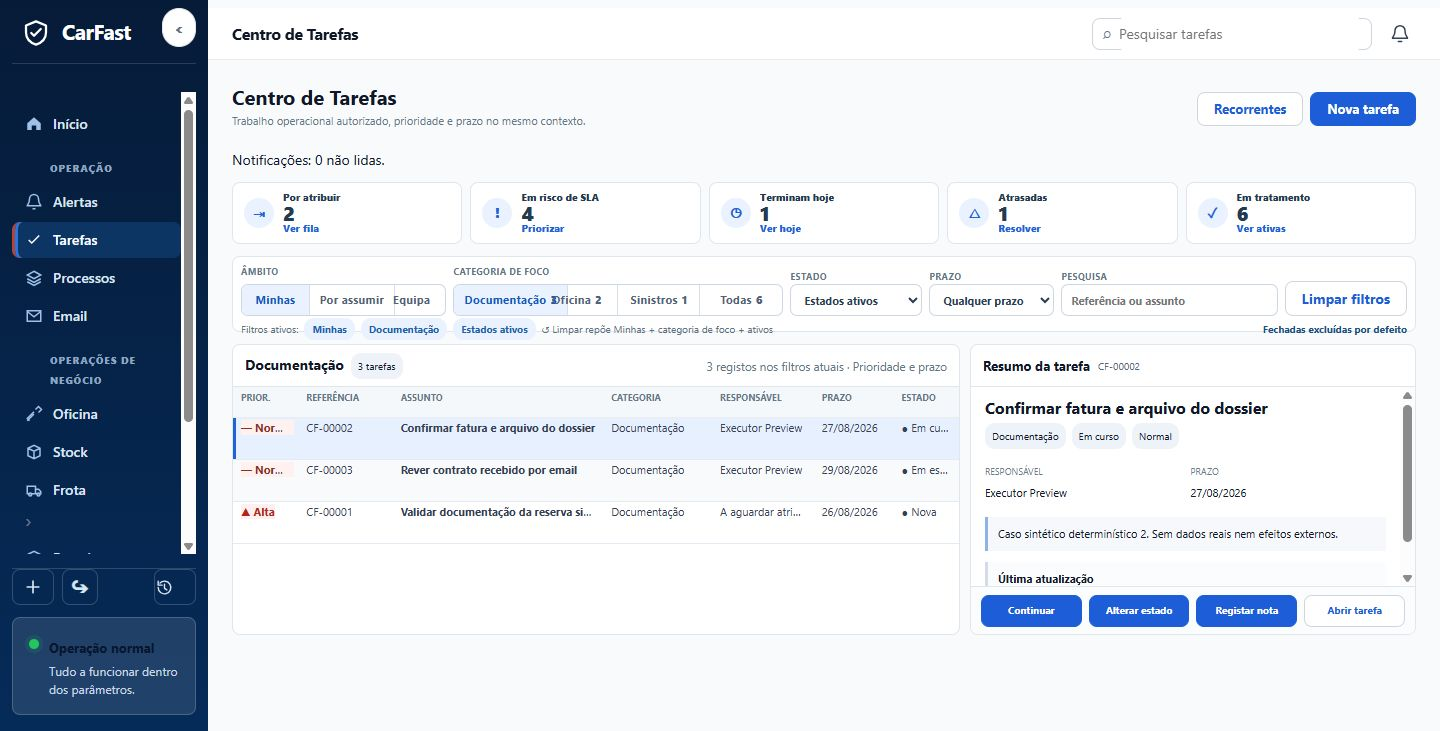
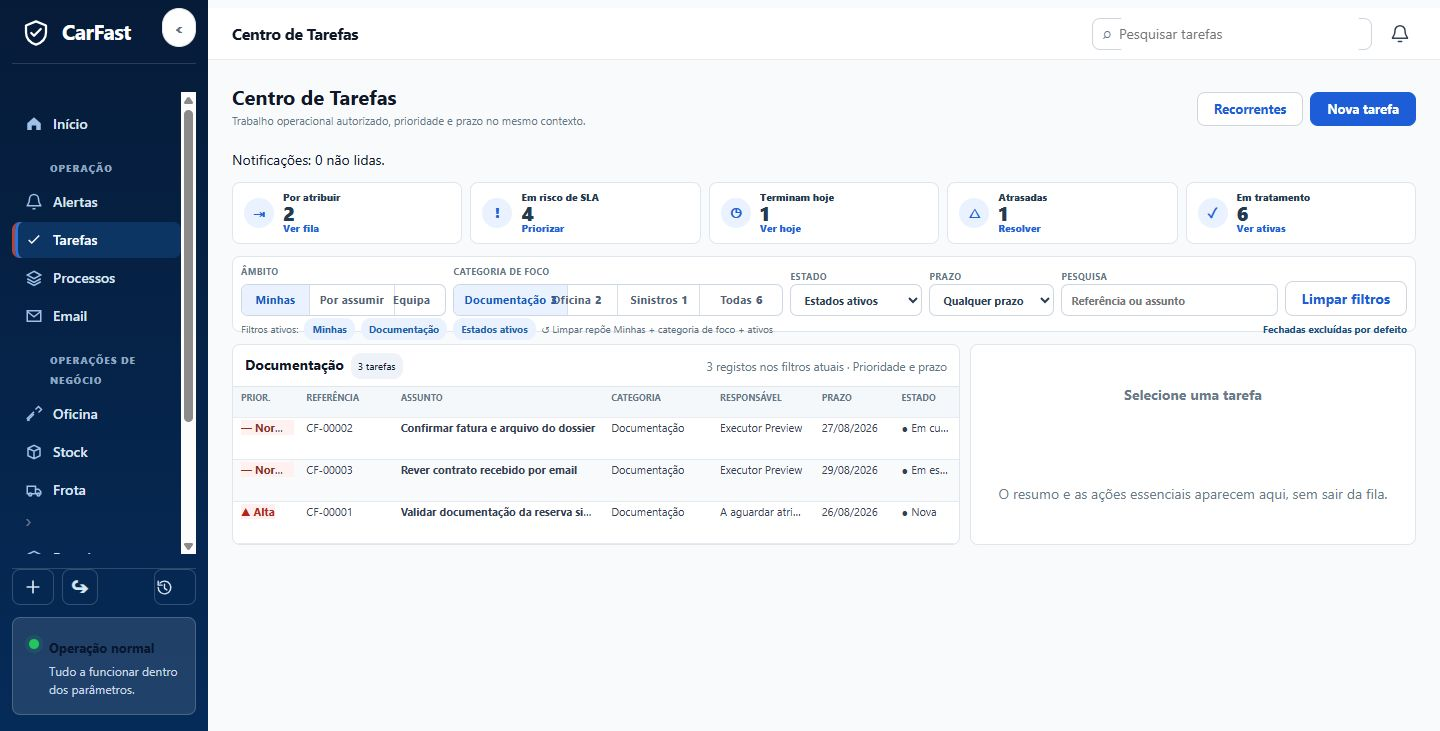
fix(tasks): enforce safe focus and exclusive categories

diff --git a/app/templates/_task_center_approved.html b/app/templates/_task_center_approved.html
@@ -56,7 +56,7 @@
   const submit=()=>form.requestSubmit(); form.querySelectorAll('input[type=radio],select').forEach(el=>el.addEventListener('change',submit));
   let timer; form.querySelector('[name=q]').addEventListener('input',()=>{clearTimeout(timer);timer=setTimeout(submit,300)});
   form.querySelector('[data-task-safe-reset]').addEventListener('click',()=>{const last=localStorage.getItem('carfast.taskCategory')||'documentacao';location.assign(`/v2-clean/tasks?workspace=mine&status=open&due=&category=${encodeURIComponent(last)}`)});
-  form.querySelectorAll('[name=category]').forEach(el=>el.addEventListener('change',()=>{if(el.value!=='all')localStorage.setItem('carfast.taskCategory',el.value)}));
+  form.querySelectorAll('[name=category]').forEach(el=>el.addEventListener('change',()=>{if(el.value!=='all'){localStorage.setItem('carfast.taskCategory',el.value);document.cookie=`carfast_task_category=${encodeURIComponent(el.value)}; Path=/; SameSite=Lax`}}));
   const fields=['reference','title','category','owner','due','state','priority','summary','update'];
   function close(){preview.classList.add('is-empty');rows.forEach(r=>r.setAttribute('aria-selected','false'));history.replaceState(null,'',location.pathname+location.search);sessionStorage.removeItem('carfast.taskSelection')}
   let selectedRow=null;

diff --git a/app/web/router.py b/app/web/router.py
@@ -23,7 +23,7 @@ from urllib.parse import quote_plus, urlencode
 from fastapi import APIRouter, File, Form, Request, UploadFile
 from fastapi.responses import FileResponse, HTMLResponse, JSONResponse, RedirectResponse, Response
 from fastapi.templating import Jinja2Templates
-from sqlalchemy import case, delete, func, literal, or_, select
+from sqlalchemy import and_, case, delete, func, literal, or_, select
 from sqlalchemy.orm import Session, aliased
 
 from app.core.change_notice import (
@@ -4707,30 +4707,40 @@ def clean_tasks_center(
         default_task_category = "documentacao"
         approved_category_codes = {"documentacao", "oficina", "sinistros", "all"}
         requested_category = category.strip().lower()
+        remembered_task_category = request.cookies.get("carfast_task_category", "").strip().lower()
+        if remembered_task_category not in approved_category_codes - {"all"}:
+            remembered_task_category = default_task_category
         active_task_category = (
             requested_category
             if requested_category in approved_category_codes
-            else default_task_category
-            if not request.url.query
+            else remembered_task_category
+            if settings.visual_foundation_enabled
             else "all"
         )
         clean_nature = nature.strip()[:80]
         if clean_nature:
             filters.append(Task.category == clean_nature)
-        category_conditions = {
-            "documentacao": or_(
+        sinistros_category_condition = or_(
+            Task.category.ilike("%sinistro%"),
+            Task.category.ilike("%acidente%"),
+        )
+        oficina_category_source = or_(
+            Task.category.ilike("%oficina%"),
+            Task.category.ilike("%repara%"),
+            Task.task_type.in_(("workshop_task", "workshop_audit")),
+        )
+        documentacao_category_source = or_(
                 Task.category.ilike("%document%"),
                 Task.category.ilike("%fatura%"),
                 Task.task_type.in_(("audit_task", "administration_task")),
-            ),
-            "oficina": or_(
-                Task.category.ilike("%oficina%"),
-                Task.category.ilike("%repara%"),
-                Task.task_type.in_(("workshop_task", "workshop_audit")),
-            ),
-            "sinistros": or_(
-                Task.category.ilike("%sinistro%"),
-                Task.category.ilike("%acidente%"),
+        )
+        category_conditions = {
+            "sinistros": sinistros_category_condition,
+            "oficina": and_(~sinistros_category_condition, oficina_category_source),
+            "documentacao": and_(
+                ~sinistros_category_condition,
+                ~oficina_category_source,
+                documentacao_category_source,
             ),
         }
         if active_task_category != "all":

diff --git a/tests/test_task_center_approved_contract.py b/tests/test_task_center_approved_contract.py
@@ -137,3 +137,42 @@ def test_counter_values_reconcile_with_authorized_server_filters(
     page_count = int(re.search(r'data-task-counter="unassigned"[^>]+aria-label="Ver (\d+) tarefas', page.text).group(1))
     result_count = int(re.search(r'<section class="task-center-approved-queue[^>]*>.*?<header>.*?<span>(\d+) tarefas', unassigned.text, re.S).group(1))
     assert page_count == result_count
+
+
+def test_last_focus_cookie_and_invalid_category_fail_closed(
+    authenticated_client, db_session, monkeypatch
+) -> None:
+    monkeypatch.setattr(task_router.settings, "visual_foundation_enabled", True)
+    actor = db_session.scalar(select(User).where(User.email == "admin.tests@carfast.local"))
+    db_session.add_all(
+        [
+            Task(title="Oficina lembrada", task_type="workshop_task", category="Oficina", status="new", priority="normal", assigned_to_id=actor.id),
+            Task(title="Documento fora do foco lembrado", task_type="operational_task", category="Documentação", status="new", priority="normal", assigned_to_id=actor.id),
+        ]
+    )
+    db_session.commit()
+    authenticated_client.cookies.set("carfast_task_category", "oficina")
+
+    remembered = authenticated_client.get("/v2-clean/tasks")
+    invalid = authenticated_client.get("/v2-clean/tasks?category=valor-invalido")
+
+    for page in (remembered, invalid):
+        assert "Oficina lembrada" in page.text
+        assert "Documento fora do foco lembrado" not in page.text
+        assert 'value="oficina" checked' in page.text
+
+
+def test_category_buckets_are_mutually_exclusive_under_adversarial_type(
+    authenticated_client, db_session, monkeypatch
+) -> None:
+    monkeypatch.setattr(task_router.settings, "visual_foundation_enabled", True)
+    db_session.add(
+        Task(title="Sinistro em fluxo de oficina", task_type="workshop_task", category="Sinistros", status="new", priority="high")
+    )
+    db_session.commit()
+
+    workshop = authenticated_client.get("/v2-clean/tasks?workspace=all&status=open&category=oficina")
+    claims = authenticated_client.get("/v2-clean/tasks?workspace=all&status=open&category=sinistros")
+
+    assert "Sinistro em fluxo de oficina" not in workshop.text
+    assert "Sinistro em fluxo de oficina" in claims.text

diff --git a/docs/evidence/task-center-approved/EVIDENCE.md b/docs/evidence/task-center-approved/EVIDENCE.md
@@ -26,7 +26,7 @@ As diferenças face ao PNG do protótipo limitam-se ao conteúdo real do shell a
 
 | Estado | Ficheiro | SHA-256 |
 |---|---|---|
[5 lines of base64/hex data omitted]
@@ -43,7 +43,7 @@ As diferenças face ao PNG do protótipo limitam-se ao conteúdo real do shell a
 
 ## Testes
 
-- `54 passed`: contrato novo, defaults/fechadas, reconciliação de contadores, tarefas, notificações/acesso, Service Desk, RBAC e gates Frente A diretamente afetados.
+- `56 passed`: contrato novo, preferência persistida, buckets adversariais exclusivos, defaults/fechadas, reconciliação de contadores, tarefas, notificações/acesso, Service Desk, RBAC e gates Frente A diretamente afetados.
 - Suite completa recolhida: 811 testes; os primeiros FAILs são anteriores e reproduzíveis na base aceite em superfícies fora desta tranche. Não foram mascarados nem alterados.
 - Browser: seleção por Enter, fechar sem perda de contexto, categoria Oficina + reset para Oficina, cinco estados e geometria sem overflow PASS.
 
